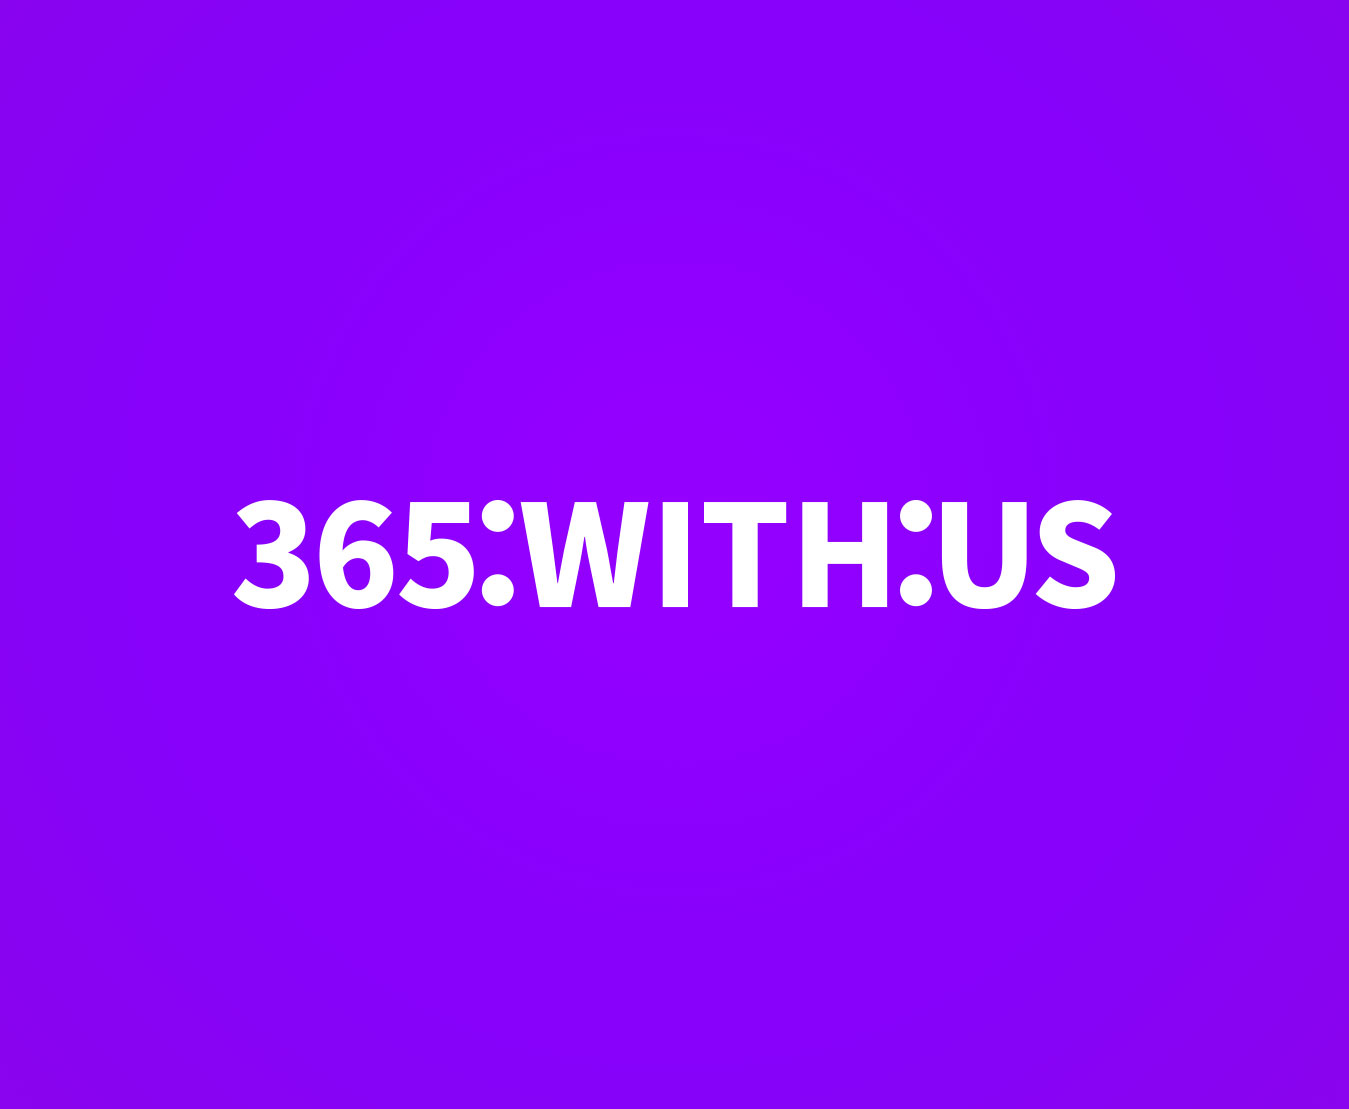
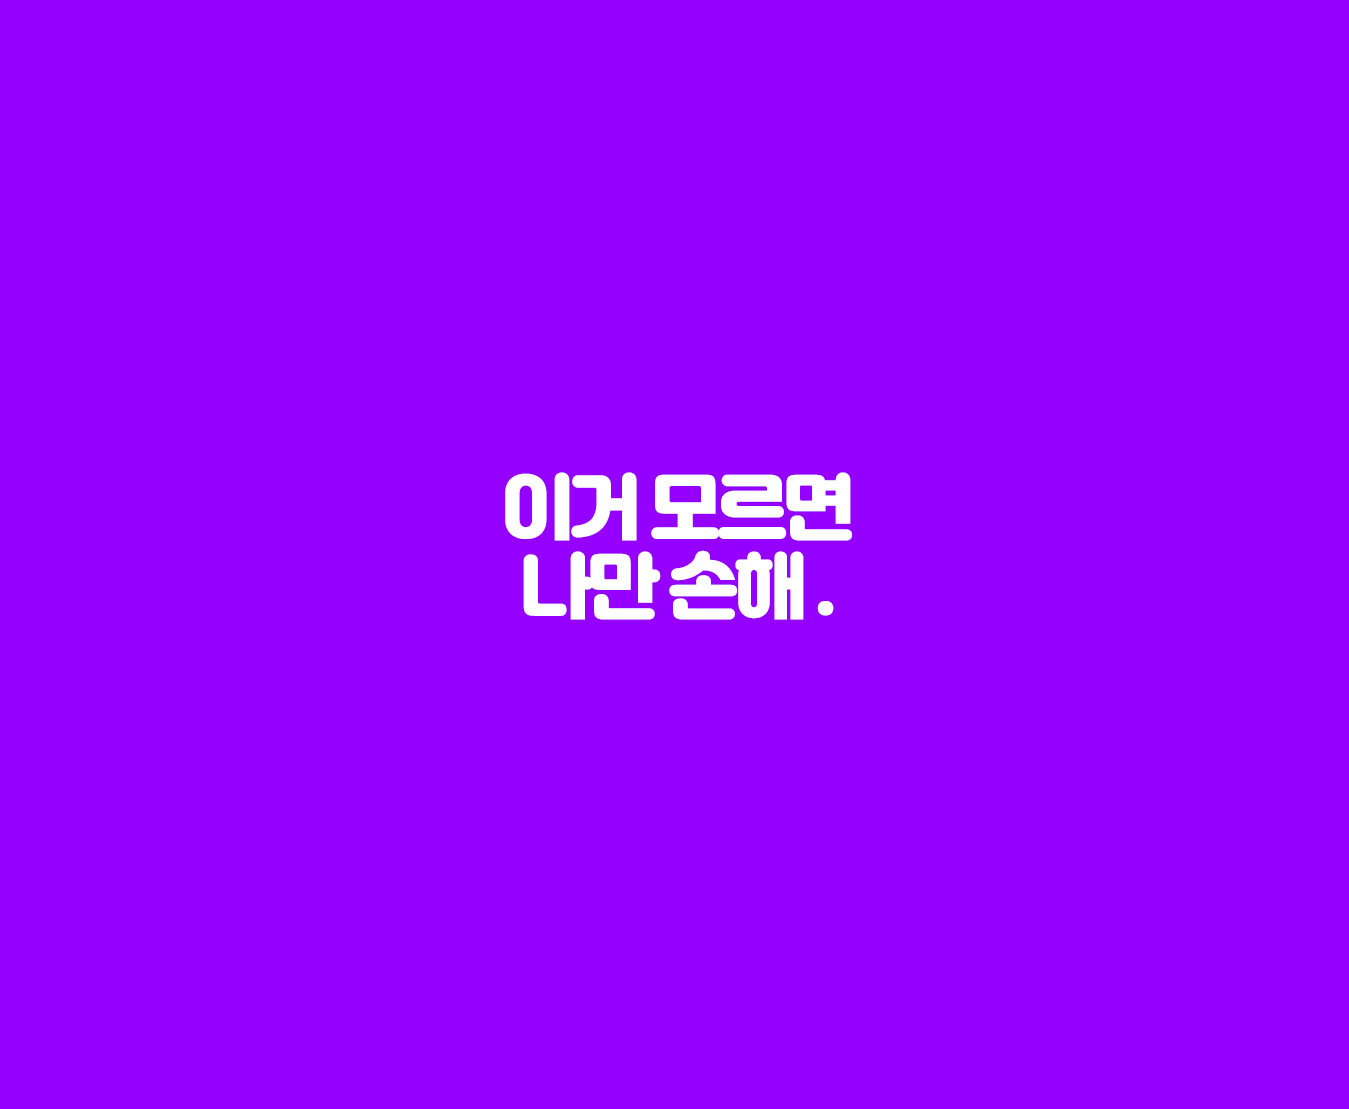
-1

Changed region(s): [[0.1557, 0.4292, 0.8406, 0.5825]]

diff --git a/index.html b/index.html
@@ -18,7 +18,7 @@
 <section class="intro">
 <header>
 <h1>365WITHUS</h1>
-<p>회사생활 조금 더 편하게 하기</p>
+<p class="color-w">이거 모르면 나만 손해 :w</p>
 <ul class="actions">
 <li><a href="#first" class="arrow scrolly"><span class="label">Next</span></a></li>
 </ul>
@@ -51,7 +51,7 @@
 				<section>
 					<header>
 						<h3>영상팀</h3>
-						<p>영상 컨텐츠를 기획하고 제작합니다</p>
+						<p class="color-w">production@365withus.com</p>
 					</header>
 					<div class="content">
 						<div class="gallery">
@@ -65,9 +65,7 @@
 				<section>
 					<header>
 						<h3>마케팅팀</h3>
-						<p class="color-w">사업 방향성 및 전략을 수립합니다 </p>
-			    <h6>-국내파트</h6>
-					<h6>-해외파트</h6>
+						<p class="color-w">marketing@365withus.com </p>
 
 
 					</header>
@@ -85,7 +83,7 @@
 				<section>
 					<header>
 						<h3>디자인팀</h3>
-						<p>브랜드의 방향을 설정합니다</p>
+						<p class="color-w">design@365withus.com </p>
 					</header>
 					<div class="content">
 						<div class="gallery">
@@ -99,7 +97,7 @@
 					<section>
 						<header>
 							<h3>관리팀</h3>
-							<p>유저와 가장 가까운 곳에서 소통 합니다.</p>
+							<p class="color-w">manage@365withus.com</p>
 						</header>
 						<div class="content">
 							<div class="gallery">
@@ -117,7 +115,7 @@
 
 <section>
 <header>
-<h2>우리가 정한 것들</h2>
+<h2>준수사항</h2>
 </header>
 <div class="content">
 
@@ -130,18 +128,7 @@
 									<li>직책은 대표, 팀장, 파트장, 담당자 로 구분됩니다.</li>
 									<li>정해진 업무시간은 10:00 ~ 18:00 입니다.</li>
 									<li>점심시간은 12:00 ~ 13:00 입니다.</li>
-									<li>점심시간은 12:00 ~ 13:00 입니다.</li>
-									<li>월급날은 매 달 10일입니다.</li>
-							</ul>
-
-							<h4>업무</h4>
-							<ul class="alt">
-								<li>모든 업무는 '라인웍스' 로 진행됩니다.</li>
-								<li>design@365withus.com 에 본인이 원하는 계정 ID를 신청합니다. </li>
-								<li>계정생성후 본인의 ID로 웍스에 접속합니다.</li>
-								<li>모든 일정은 '라인웍스' 캘린더에 공지되고 기록되어야 합니다.</li>
-								<li>모든 일정은 '라인웍스' 업무게시판에 공유되어야 합니다.</li>
-								<li>모든 미팅 후, 미팅내용은 '라인웍스' 업무게시판에 공유되어야 합니다.</li>
+									<li>월급날은 매 달 10일입니다.<span class="text-small">얏호 :w<span></li>
 							</ul>
 
 							<h4>초기세팅정보</h4>
@@ -154,14 +141,15 @@
 							<h4>비용처리</h4>
 							<ul class="alt">
 								<li>회사와 관련된 모든 비용은 사전협의가 진행되어야 합니다.</li>
-								<li>비용 신청은 관리팀장님(manage@365withus.com)에게 신청합니다.</li>
+								<li>비용 신청은 관리팀장님(manage@365withus.com)에게 하단의 양식을 참고하여 신청합니다. 혹은 웍스 메신저로 신청</li>
+								<pre><code>구매물품 :<br>구매사유 : <br>결제정보 : (은행명 / 계좌번호 / 예금주 / 입금액) <br>증빙사항 : (세금계산서 / 현금영수증) <br>기타사항 : (필요시)</code></pre>
 								<li>결제된 모든 내용은 현금영수증 혹은 세금계산서로 증빙되어야 합니다. *비용신청자 의무사항*</li>
 							</ul>
 
 							<h4>연차</h4>
 							<ul class="alt">
 								<li>모든 연차는 근로기준법에 의거하여 제공됩니다. <a href="http://www.law.go.kr/%EB%B2%95%EB%A0%B9/%EA%B7%BC%EB%A1%9C%EA%B8%B0%EC%A4%80%EB%B2%95"><근로기준법 제 60조~63조></a></li>
-								<li>연차는 1주일 전에 '라인웍스' 캘린더에 게재되고 정해진 휴가원 양식으로 신청하는 것을 권장합니다.</li>
+								<li>연차는 1주일 전에 '라인웍스' <span class="color-red">캘린더에 게재</span>되고 <span class="color-red">정해진 휴가원 양식</span>으로 신청하는 것을 권장합니다.</li>
 								<li>휴가원은 하단의 양식을 복사해 design@365withus.com 로 메일링을 통해 진행됩니다.</li>
 								<pre><code>
 연차 신청자 :
@@ -174,30 +162,30 @@
 
 							<h4>복지</h4>
 							<ol>
-								<li>Dolor pulvinar etiam.</li>
-								<li>Etiam vel felis viverra.</li>
-								<li>Felis enim feugiat.</li>
-								<li>Dolor pulvinar etiam.</li>
-								<li>Etiam vel felis lorem.</li>
-								<li>Felis enim et feugiat.</li>
+								<li>중식제공: <span class="text-small">먹는게 남는거!</span></li>
+								<li>간식제공: <span class="text-small">먹고 살찌고 일하라!<span></li>
+								<li>자사제품 할인</li>
+								<li>경조사비지원</li>
+								<li>자기계발 비용 지원: <span class="text-small">정확한 목표 설정 필요!</span></li>
 							</ol>
-							<h4>Icons</h4>
-							<ul class="icons">
-								<li><a href="#" class="icon fa-twitter"><span class="label">Twitter</span></a></li>
-								<li><a href="#" class="icon fa-facebook"><span class="label">Facebook</span></a></li>
-								<li><a href="#" class="icon fa-instagram"><span class="label">Instagram</span></a></li>
-								<li><a href="#" class="icon fa-github"><span class="label">Github</span></a></li>
+
+							<h4>업무</h4>
+							<ul class="alt">
+								<li>모든 업무는 '라인웍스' 로 진행됩니다.</li>
+								<li>design@365withus.com 에 본인이 원하는 계정 ID를 신청합니다. </li>
+								<li>계정생성후 본인의 ID로 웍스에 접속합니다.</li>
+								<li>모든 일정은 '라인웍스' 캘린더에 <span class="color-red">게재</span>되고 기록되어야 합니다.</li>
+								<li>모든 미팅 후, 미팅내용은 '라인웍스' 업무게시판에 <span class="color-red">공유</span>되어야 합니다.</li>
 							</ul>
 
-							<h4>Actions</h4>
-							<ul class="actions">
+						
+							<!-- <ul class="actions stacked">
 								<li><a href="#" class="button primary">Default</a></li>
-								<li><a href="#" class="button">Default</a></li>
-							</ul>
-							<ul class="actions stacked">
-								<li><a href="#" class="button primary">Default</a></li>
-								<li><a href="#" class="button">Default</a></li>
-							</ul>
+								<li><a href="#" class="button">영상팀</a></li>
+								<li><a href="#" class="button">마케팅팀</a></li>
+								<li><a href="#" class="button">디자인팀</a></li>
+								<li><a href="#" class="button">관리팀</a></li>
+							</ul> -->
 						</div>
 					</section>
 
@@ -209,13 +197,20 @@
 								<h2>업무</h2>
 							</header>
 							<div class="content">
-								<p><strong>Integer mollis egestas</strong> nam maximus erat id euismod egestas. Pellentesque sapien ac quam. Lorem ipsum dolor sit nullam.</p>
+								<h4>팀별 업무</h4>
+								<ul class="actions">
+									<li><a href="#production_role" class="button">영상팀</a></li>
+									<li><a href="#3" class="button">마케팅팀</a></li>
+									<li><a href="#" class="button">디자인팀</a></li>
+									<li><a href="#" class="button">영상팀</a></li>
 
+								</ul>
 								<!-- Section -->
 									<section>
 										<header>
-											<h3>시작</h3>
-											<p>Vehicula ultrices dolor amet ultricies et condimentum. Magna sed etiam consequat, et lorem adipiscing sed dolor sit amet, consectetur amet do eiusmod tempor incididunt  ipsum suspendisse ultrices gravida.</p>
+											<h3 id="production_role">영상팀</h3>
+											<p class="color-w">영상컨텐츠를 기획하고 제작합니다</p>
+
 										</header>
 										<div class="content">
 											<div class="gallery">
@@ -230,8 +225,10 @@
 								<!-- Section -->
 									<section>
 										<header>
-											<h3>복지</h3>
-											<p>Aenean ornare velit lacus, ac varius enim ullamcorper eu. Proin aliquam sed facilisis ante interdum congue. Integer mollis, nisl amet convallis, porttitor magna ullamcorper, amet mauris. Ut magna finibus nisi nec lacinia ipsum maximus.</p>
+											<h3>마케팅팀</h3>
+											<p class="color-w">비즈니스 방향성을 잡고 실행합니다</p>
+											<p class="color-w text-small">영업파트</p>
+											<p class="color-w text-small">제품파트</p>
 										</header>
 										<div class="content">
 											<div class="gallery">
@@ -245,8 +242,24 @@
 								<!-- Section -->
 									<section>
 										<header>
-											<h3>주의사항</h3>
-											<p>Proin aliquam facilisis ante interdum. Sed nulla amet lorem feugiat tempus aenean ornare velit lacus, ac varius sed enim lorem ullamcorper dolore.  ac varius enim lorem ullamcorper dolore. Proin aliquam facilisis.</p>
+											<h3>디자인팀</h3>
+											<p class="color-w">브랜드의 방향을 설정합니다</p>
+										</header>
+										<div class="content">
+											<div class="gallery">
+												<a href="images/gallery/fulls/08.jpg" class="portrait"><img src="images/gallery/thumbs/08.jpg" alt="" /></a>
+												<a href="images/gallery/fulls/09.jpg" class="portrait"><img src="images/gallery/thumbs/09.jpg" alt="" /></a>
+												<a href="images/gallery/fulls/10.jpg" class="landscape"><img src="images/gallery/thumbs/10.jpg" alt="" /></a>
+											</div>
+										</div>
+									</section>
+
+									<section>
+										<header>
+											<h3>관리팀</h3>
+											<p class="color-w">유저와 가장 가까운 곳에서 소통합니다</p>
+											<p class="color-w text-small">고객관리담당</p>
+											<p class="color-w text-small">생산관리담당</p>
 										</header>
 										<div class="content">
 											<div class="gallery">
@@ -479,7 +492,7 @@
 
 
 				<!-- Elements -->
-				<!--
+
 					<section>
 						<header>
 							<h2>Elements</h2>
@@ -744,7 +757,7 @@ print 'Sorted in ' + i + ' iterations.';</code></pre>
 
 						</div>
 					</section>
-				-->
+				 -->
 
 				<!-- Section -->
 					<section>

diff --git a/assets/css/main.css b/assets/css/main.css
@@ -3865,4 +3865,6 @@ input, select, textarea {
 
 	}
 	.color-blue{ color: #43d9b8 !important;}
+	.color-red{ color: #f00 !important;}
 	.color-w{ color: #ffffff !important;}
+	.text-small{font-size:0.7rem;}
